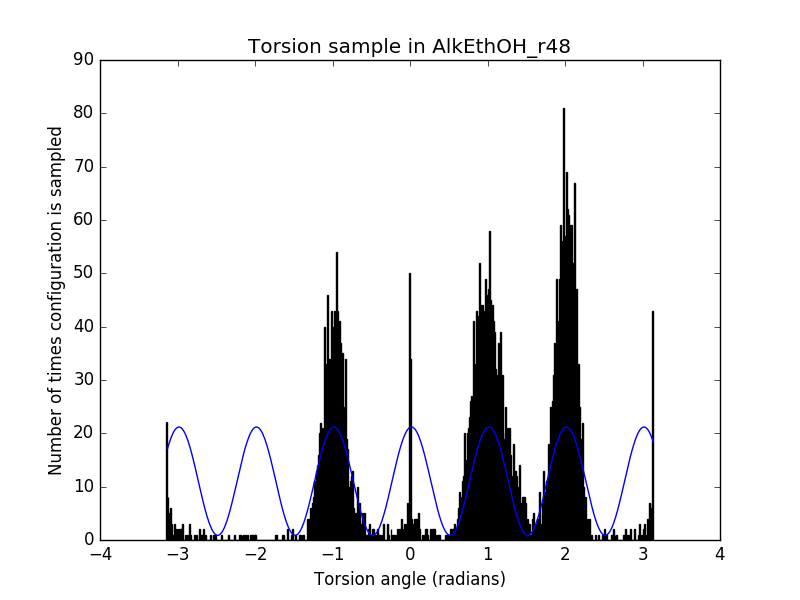
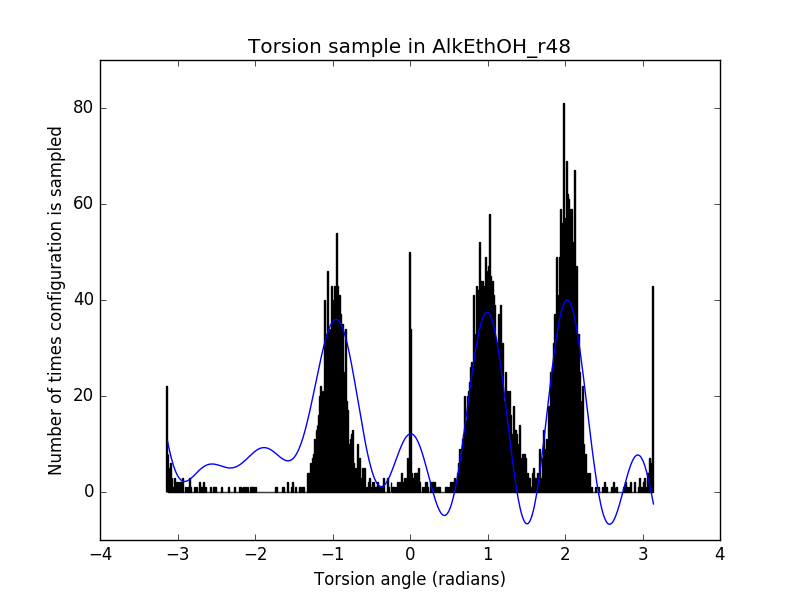
update torsion fits with changing period

diff --git a/single-molecule-property-generation/least_squares_fit_example.py b/single-molecule-property-generation/least_squares_fit_example.py
@@ -329,12 +329,12 @@ def readtraj(ncfiles):
 tau = 1.
 def fourier(x, *a):
     ret =  a[0] / 2 + \
-           a[2] * np.sin(2*np.pi*x / tau + a[1]) + \
-           a[4] * np.sin(2*np.pi*x / tau + a[3]) + \
-           a[6] * np.sin(2*np.pi*x / tau + a[5]) + \
-           a[8] * np.sin(2*np.pi*x / tau + a[7]) + \
-           a[10] * np.sin(2*np.pi*x / tau + a[9]) + \
-           a[12] * np.sin(2*np.pi*x / tau + a[11])
+           a[1] * np.sin(2*np.pi*x / a[2] + a[3]) + \
+           a[4] * np.sin(2*np.pi*x / a[5] + a[6]) + \
+           a[7] * np.sin(2*np.pi*x / a[8] + a[9]) + \
+           a[10] * np.sin(2*np.pi*x / a[11] + a[12]) + \
+           a[13] * np.sin(2*np.pi*x / a[14] + a[15]) + \
+           a[16] * np.sin(2*np.pi*x / a[17] + a[18])
           
     #for deg in range(2, len(a)/2):
     #    ret += a[2*deg] * np.sin((deg) * 2*np.pi*x / tau + a[2*deg-1])
@@ -513,7 +513,7 @@ for i,j in enumerate(n1):
 	if j==0.:
            n1[i]=5.
 
-popt, pcov = sci.curve_fit(fourier, bins1[1:], n1, [1.0,0.0]*7)
+popt, pcov = sci.curve_fit(fourier, bins1[1:], n1, [1.0] + [1.0,1.0,0.0]*6,maxfev=10000)
 plt.plot(bins1[1:],fourier(bins1[1:],*popt))
 plt.ylabel('Number of times configuration is sampled')
 plt.xlabel('Torsion angle (radians)')
